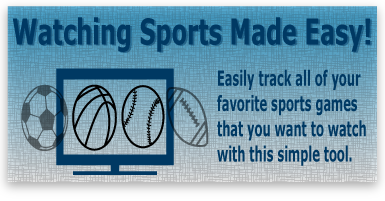
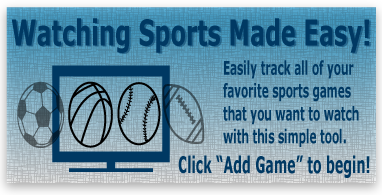
Fixed CTA

diff --git a/Gold/index.html b/Gold/index.html
@@ -28,11 +28,12 @@ MiU 1308 Mobile App GOLD-->
         
         <div data-role="header">
             <a href="index.html" data-add-back-btn="true" data-rel="back" data-icon="back" data-iconpos="notext"></a>
-            <h1>Watch Sports!</h1>  
+            <h1>Watch Sports!</h1>
         </div>
-        
         <div data-role="content">
             <img src="img/CTA_Final.png" width="100%" height="100%"></a>
+            <br>
+            <br>
             <ul data-role="listview" data-inset="true" data-filter="true">
                 <li><a href="#browseSports">Browse Sports</a></li>
                 <li><a href="#upcomingGames">Upcoming Games</a></li>
@@ -621,19 +622,19 @@ MiU 1308 Mobile App GOLD-->
         <div data-role="content">
             <form action="" method="post" id="gameEntry">
                 <div data-role="fieldcontain">
-                    <label for="nameOfGame">Name of Game</label>
+                    <label for="nameOfGame">Name of Game</label><label id="required1">*Required</label>
                     <input type="text" name="nameOfGame" id="nameOfGame" placeholder="Example: Yankees vs Red Sox" class="required"/>  
                 </div>
                 <div data-role="fieldcontain">
-                    <label for="homeTeam">Home Team</label>
+                    <label for="homeTeam">Home Team</label><label id="required2">*Required</label>
                     <input type="text" name="homeTeam" id="homeTeam" placeholder="Example: Yankees" class="required"/>  
                 </div>
                 <div data-role="fieldcontain">
-                    <label for="awayTeam">Away Team</label>
+                    <label for="awayTeam">Away Team</label><label id="required3">*Required</label>
                     <input type="text" name="awayTeam" id="awayTeam" placeholder="Example: Red Sox" class="required"/>  
                 </div>
                 <div data-role="fieldcontain">
-                    <label for="selectSport">Select Sport:</label>
+                    <label for="selectSport">Select Sport:</label><label id="required4">*Required</label>
                     <select name="selectSport" id="selectSport" data-native-menu="false" class="required">
                         <option value="football">Football</option>
                         <option value="soccer">Soccer</option>
@@ -655,8 +656,8 @@ MiU 1308 Mobile App GOLD-->
                 </div>
                 
                 <div data-role="fieldcontain">
-                    <label for="dateOfGame">Date of Game:</label>
-                    <input type="date" name="dateOfGame" id="dateOfGame" class="required date"/>
+                    <label for="dateOfGame">Date of Game:</label><label id="required5">*Required</label>
+                    <input type="date" name="dateOfGame" id="dateOfGame" placeholder="MM/DD/YYYY" class="required date"/>
                 </div>
                 
                 <div data-role="fieldcontain">
@@ -670,23 +671,22 @@ MiU 1308 Mobile App GOLD-->
                 </div>
                 
                 <div data-role="fieldcontain">
-                    <input type="submit" value="Add Game to Watch List!" id="submit" data-theme="b"/>
+                    <input type="submit" value="Add Game to Watch List!" id="submit" data-icon="check" data-iconpos="left"data-theme="b"/>
                 </div>
                  
                 <div data-role="fieldcontain">
-                    <input type="reset" value="Clear Game" data-theme="c"/>
+                    <input type="reset" value="Clear Game" data-mini="true" data-icon="delete" data-iconpos="left" data-theme="e"/>
                 </div>
                 
-                <a href="#gameEntryErrors" id="gameErrorsLink" data-rel="dialog" data-transition="pop">See Errors</a>
             </form>
         </div>
         
-        <div data-role="footer" data-position="fixed" data-id="titlePage">
+        <div data-role="footer" data-id="titlePage">
             <div data-role="navbar" data-iconpos="left">
                 <ul>
                 <li><a href="#titlePage" data-icon="home">Home</a></li>  
                 <li><a href="#about" data-icon="info">About</a></li>
-                <li><a href="#addGame" data-ajax="false" data-icon="plus" class="ui-btn-active">Add Game</a></li>
+                <li><a href="#addGame" data-ajax="false" data-icon="plus">Add Game</a></li>
                 </ul>
             </div>
         </div>

diff --git a/Bronze/additem.html b/Bronze/additem.html
@@ -34,10 +34,10 @@ VFW 1306 /-->
             <legend>Game Information</legend>
             <ul id="errors"></ul>
             <ul id=fieldInputs>
-                <li><label for="gameName">Game Name:</label><input type="text" id="gameName" /></li>
-                <li><label for="homeTeam">Home Team:</label><input type="text" id="homeTeam" /></li>
-                <li><label for="awayTeam">Away Team:</label><input type="text" id="awayTeam" /></li>
-                <li id="select"><label for="sportType">What Sport Is It?</label></li>
+                <li><label for="gameName">Game Name:</label><label style="font-size: 8; color: #0000CC"> (Required)</label><input type="text" id="gameName" /></li>
+                <li><label for="homeTeam">Home Team:</label><label style="font-size: 8; color: #0000CC"> (Required)</label><input type="text" id="homeTeam" /></li>
+                <li><label for="awayTeam">Away Team:</label><label style="font-size: 8; color: #0000CC"> (Required)</label><input type="text" id="awayTeam" /></li>
+                <li id="select"><label for="sportType">What Sport Is It?</label><label style="font-size: 8; color: #0000CC"> (Required)</label></li>
                 <li><label for="otherField">If Other, Please Describe Here:</label><textarea id="otherField"></textarea></li>
                 <li><label for="favTeam">Is Your Favorite Team Playing?</label>
                     <ul>
@@ -46,7 +46,7 @@ VFW 1306 /-->
                     </ul>
                 </li>
                 <li><label for="priority">How Important Is This Game?</label> <input type="range" min="0" max="5" step="1" value="0" id="priority" /> </li>
-                <li><label for="dateOfGame">What Is The Date Of This Game?</label> <input type="date" id="dateOfGame" /></li>
+                <li><label for="dateOfGame">What Is The Date Of This Game?</label><label style="font-size: 8; color: #0000CC"> (Required)</label> <input type="date" id="dateOfGame" /></li>
                 <li><label for="winningTeam">Who Do You Want To Win?</label><input type="text" id="winningTeam" /></li>
                 <li><input type="hidden" value="dateEntered" /></li>
             </ul>

diff --git a/Gold/js/main.js b/Gold/js/main.js
@@ -64,11 +64,26 @@ var getData = function(){
  
 
 var deleteItem = function (){
-			
+	var ask = confirm("Are you absolutely sure you want to delete this game?");
+        if (ask) {
+            localStorage.removeItem(this.key);
+            window.location.reload();
+        }else{
+            alert("Game was NOT deleted!");}
+
 };
 					
 var clearLocal = function(){
-
+        if (localStorage.length == 0) {
+            alert("No data to clear!");
+        }else{
+            localStorage.clear();
+            alert("All games deleted!");
+            window.location.reload();
+            return false;
+        }
 };
+    
+
 
 

diff --git a/Gold/css/MainCSS.css b/Gold/css/MainCSS.css
@@ -8,8 +8,11 @@
 #browseSportsTitle{text-align:center;}
 #whatToWatch{text-align:center;}
 #listOfSports{text-align:center;}
-#gameErrorsLink{display:none;}
-
+#required1{font-size: 12px; color: #0000CC;}
+#required2{font-size: 12px; color: #0000CC;}
+#required3{font-size: 12px; color: #0000CC;}
+#required4{font-size: 12px; color: #0000CC;}
+#required5{font-size: 12px; color: #0000CC;}
 
 label.error{display:block; margin: 5px 0; color: red;}
 
